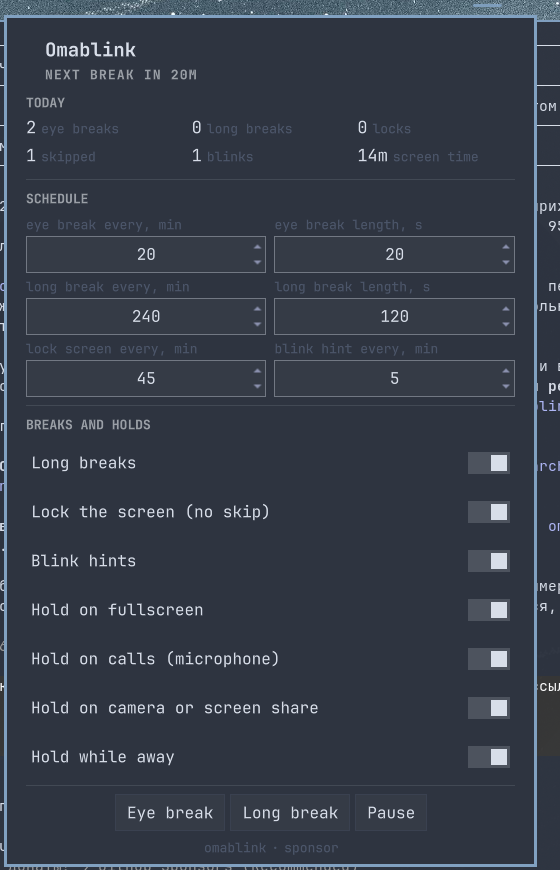
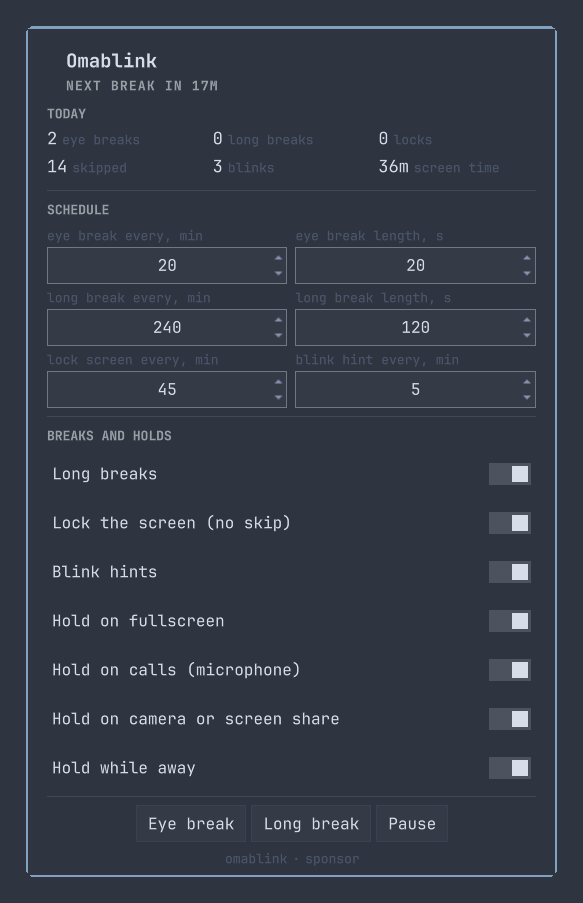
fix: stop rewriting the panel content on every tick
The panel bound its counters straight to today's stats, and screenSeconds
increments once a second, so the card resized continuously and the popup
stopped mapping at all after a few minutes. Counters are now pushed on open
and on a slow tick while the panel is up.

diff --git a/BarWidget.qml b/BarWidget.qml
@@ -227,8 +227,25 @@ BarWidget {
       root.bar.shell.updateEntryInline(root.moduleName, entry)
   }
 
-  function togglePanel() { panelLoader.item ? panelLoader.item.toggle() : undefined }
+  function togglePanel() {
+    if (!panelLoader.item) return
+    pushDay()
+    panelLoader.item.toggle()
+  }
 
+  // Today's counters are pushed on open and then on a slow tick while the
+  // panel is up. Binding them straight to `day` rewrote the panel's content
+  // every second — screenSeconds increments on every tick — which resized the
+  // card continuously and left the popup unable to map at all after a while.
+  function pushDay() {
+    if (panelLoader.item && "day" in panelLoader.item) panelLoader.item.day = root.day
+  }
+
+  // Only the structural wiring is pushed imperatively, and only when it
+  // actually changes. The live values (status line, today's counters) arrive
+  // through Bindings below: re-injecting them every second — the status text
+  // changes on every tick — churned the panel's whole content tree and left
+  // the popup coordinator unable to reopen it after a while.
   function injectPanel() {
     var target = panelLoader.item
     if (!target) return
@@ -236,9 +253,6 @@ BarWidget {
     if ("settings" in target) target.settings = root.settings
     if ("anchorItem" in target) target.anchorItem = button
     if ("hostWidget" in target) target.hostWidget = root
-    if ("day" in target) target.day = root.day
-    if ("statusText" in target) target.statusText = root.statusText
-    if ("paused" in target) target.paused = root.paused
   }
 
   implicitWidth: button.implicitWidth
@@ -246,9 +260,20 @@ BarWidget {
 
   onBarChanged: injectPanel()
   onSettingsChanged: injectPanel()
-  onDayChanged: injectPanel()
-  onStatusTextChanged: injectPanel()
-  onPausedChanged: injectPanel()
+
+  Binding {
+    target: panelLoader.item
+    property: "statusText"
+    value: root.statusText
+    when: panelLoader.item !== null
+  }
+
+  Binding {
+    target: panelLoader.item
+    property: "paused"
+    value: root.paused
+    when: panelLoader.item !== null
+  }
 
   Timer {
     interval: 1000
@@ -330,6 +355,13 @@ BarWidget {
     repeat: true
     running: true
     onTriggered: root.flushState()
+  }
+
+  Timer {
+    interval: 5000
+    repeat: true
+    running: panelLoader.item !== null && panelLoader.item.opened
+    onTriggered: root.pushDay()
   }
 
   Timer {
@@ -464,6 +496,16 @@ BarWidget {
         + ", blink " + (root.config.blinkEnabled ? root.config.blinkMinutes + "m" : "off") + "]"
     }
     function stats(): string { return JSON.stringify(root.day) }
+    function debug(): string {
+      return JSON.stringify({
+        panelLoaded: panelLoader.item !== null,
+        panelStatus: panelLoader.status,
+        panelOpened: panelLoader.item ? panelLoader.item.opened : null,
+        hasBar: root.bar !== null,
+        peers: root.bar && typeof root.bar.moduleWidgets === "function"
+          ? root.bar.moduleWidgets(root.moduleName).length : -1
+      })
+    }
 
     // Scriptable settings, so the schedule can be changed from a keybinding
     // or a hook without opening the panel. Values arrive as strings over IPC.

diff --git a/README.md b/README.md
@@ -19,7 +19,10 @@ Each tier counts its own elapsed seconds, so skipping or deferring one does
 not shift the others. A longer rest satisfies the shorter ones: a long break
 resets the eye timer, a lock resets everything.
 
-![Bar widget](assets/bar.png)
+The widget shows the countdown to whichever break comes first; the blink hint
+is a strip that appears under the bar and takes neither focus nor clicks.
+
+![Bar widget](assets/bar.png) ![Blink hint](assets/blink.png)
 
 ## Install
 
